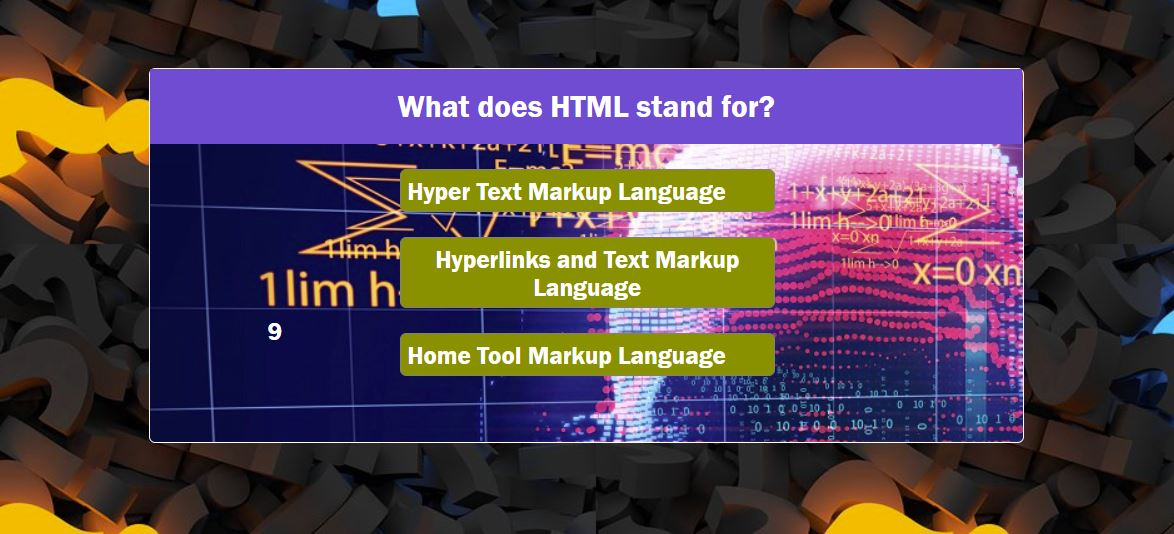
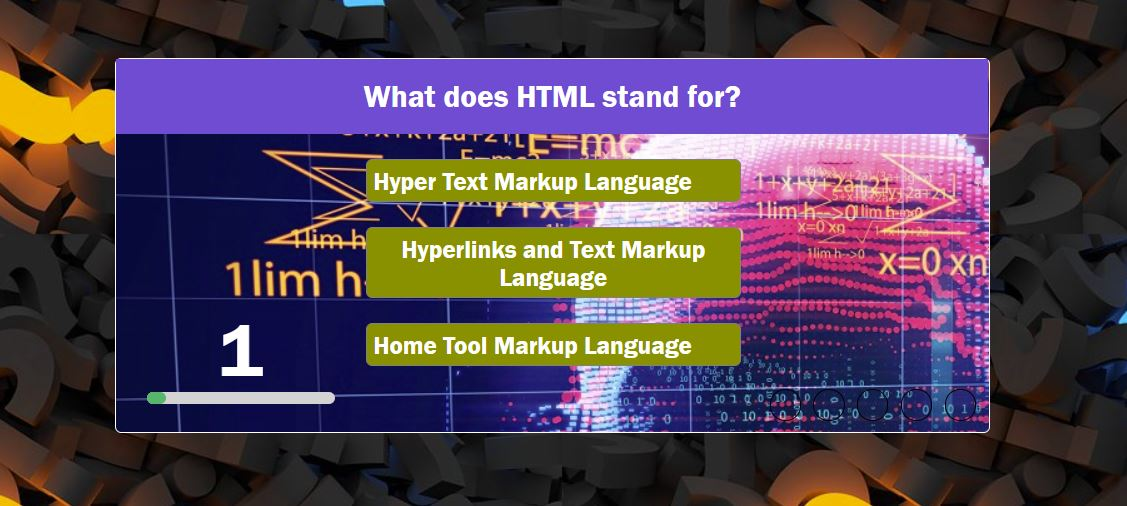
highscore added

diff --git a/script.js b/script.js
@@ -2,13 +2,15 @@
 const start = document.getElementById("start");
 const quiz = document.getElementById("quiz");
 const question = document.getElementById("question");
+const qImg = document.getElementById("qImg");
 const choiceA = document.getElementById("A");
 const choiceB = document.getElementById("B");
 const choiceC = document.getElementById("C");
 const counter = document.getElementById("counter");
+const timeGauge = document.getElementById("timeGauge");
+const progress = document.getElementById("progress");
 const scoreDiv = document.getElementById("scoreContainer");
-const yourName = document.getElementById(".details");
-const highsSores= [];
+const userDetails = document.getElementById("user-details");
 
 // create our questions
 let questions = [
@@ -49,36 +51,27 @@ let questions = [
 
 ];
 // create some variables
+
 const lastQuestion = questions.length - 1;
 let runningQuestion = 0;
-let count = 10;
+let count = 0;
 const questionTime = 10; // 10s
+const gaugeWidth = 150; // 150px
+const gaugeUnit = gaugeWidth / questionTime;
 let TIMER;
 let score = 0;
-
-// timer
-var interval = setInterval(function(){
-  document.getElementById('count').innerHTML=count;
-  count--;
-  if (count === 0){
-    clearInterval(interval);
-    document.getElementById('count').innerHTML='GAME OVER';
-    // or...
-    alert("You're out of time!");
-  }
-}, 1000);
 
 // render a question
 function renderQuestion(){
     let q = questions[runningQuestion];
-    
     question.innerHTML = "<p>"+ q.question +"</p>";
-    
     choiceA.innerHTML = q.choiceA;
     choiceB.innerHTML = q.choiceB;
     choiceC.innerHTML = q.choiceC;
 }
+
 start.addEventListener("click",startQuiz);
+
 // start quiz
 function startQuiz(){
     start.style.display = "none";
@@ -88,6 +81,7 @@ function startQuiz(){
     renderCounter();
     TIMER = setInterval(renderCounter,1000); // 1000ms = 1s
 }
+
 // render progress
 function renderProgress(){
     for(let qIndex = 0; qIndex <= lastQuestion; qIndex++){
@@ -96,9 +90,11 @@ function renderProgress(){
 }
 
 // counter render
+
 function renderCounter(){
     if(count <= questionTime){
         counter.innerHTML = count;
+        timeGauge.style.width = count * gaugeUnit + "px";
         count++
     }else{
         count = 0;
@@ -115,7 +111,8 @@ function renderCounter(){
     }
 }
 
-// checkAnswer
+// checkAnwer
+
 function checkAnswer(answer){
     if( answer == questions[runningQuestion].correct){
         // answer is correct
@@ -137,14 +134,17 @@ function checkAnswer(answer){
         scoreRender();
     }
 }
+
 // answer is correct
 function answerIsCorrect(){
-    confirm("That's Correct");
+    document.getElementById(runningQuestion).style.backgroundColor = "#0f0";
 }
+
 // answer is Wrong
 function answerIsWrong(){
-    confirm("Sorry, that's incorrect");
+    document.getElementById(runningQuestion).style.backgroundColor = "#f00";
 }
+
 // score render
 function scoreRender(){
     scoreDiv.style.display = "block";
@@ -154,5 +154,3 @@ function scoreRender(){
     
     scoreDiv.innerHTML += "<p>"+ scorePerCent +"%</p>";
 }
-
-

diff --git a/userDetails.js b/userDetails.js
@@ -1,0 +1,84 @@
+var todoInput = document.querySelector("#todo-text");
+var todoForm = document.querySelector("#todo-form");
+var todoList = document.querySelector("#todo-list");
+var todoCountSpan = document.querySelector("#todo-count");
+
+var todos = [];
+
+init();
+
+function renderTodos() {
+  // Clear todoList element and update todoCountSpan
+  todoList.innerHTML = "";
+  todoCountSpan.textContent = todos.length;
+
+  // Render a new li for each todo
+  for (var i = 0; i < todos.length; i++) {
+    var todo = todos[i];
+
+    var li = document.createElement("li");
+    li.textContent = todo;
+    li.setAttribute("data-index", i);
+
+    var button = document.createElement("button");
+    button.textContent = "Complete";
+
+    li.appendChild(button);
+    todoList.appendChild(li);
+  }
+}
+
+function init() {
+  // Get stored todos from localStorage
+  // Parsing the JSON string to an object
+  var storedTodos = JSON.parse(localStorage.getItem("todos"));
+
+  // If todos were retrieved from localStorage, update the todos array to it
+  if (storedTodos !== null) {
+    todos = storedTodos;
+  }
+
+  // Render todos to the DOM
+  renderTodos();
+}
+
+function storeTodos() {
+  // Stringify and set "todos" key in localStorage to todos array
+  localStorage.setItem("todos", JSON.stringify(todos));
+}
+
+// When form is submitted...
+todoForm.addEventListener("submit", function(event) {
+  event.preventDefault();
+
+  var todoText = todoInput.value.trim();
+
+  // Return from function early if submitted todoText is blank
+  if (todoText === "") {
+    return;
+  }
+
+  // Add new todoText to todos array, clear the input
+  todos.push(todoText);
+  todoInput.value = "";
+
+  // Store updated todos in localStorage, re-render the list
+  storeTodos();
+  renderTodos();
+});
+
+// When a element inside of the todoList is clicked...
+todoList.addEventListener("click", function(event) {
+  var element = event.target;
+
+  // If that element is a button...
+  if (element.matches("button") === true) {
+    // Get its data-index value and remove the todo element from the list
+    var index = element.parentElement.getAttribute("data-index");
+    todos.splice(index, 1);
+
+    // Store updated todos in localStorage, re-render the list
+    storeTodos();
+    renderTodos();
+  }
+});

diff --git a/index.html b/index.html
@@ -6,24 +6,27 @@
     <link rel="stylesheet" href="style.css">
 </head>
 <body>
+    
     <div id="container">
-        <div id="start">Start Thibz Quiz!</div>
+        <div id="button"><a href="userDetails.html" style="color: azure; border: 1px solid; text-decoration: none; background-color: chartreuse ; color :black;">HighScores</a></div>
+        <div id="start">Start Quiz!</div>
         <div id="quiz" style="display: none">
             <div id="question"></div>
-         <!-- <div id="qImg"></div> -->
+            <div id="qImg"></div>
             <div id="choices">
                 <div class="choice" id="A" onclick="checkAnswer('A')"></div>
                 <div class="choice" id="B" onclick="checkAnswer('B')"></div>
                 <div class="choice" id="C" onclick="checkAnswer('C')"></div>
             </div>
-                <div class = "floatingScore"> <span class ="count"></span></div>
             <div id="timer">
                 <div id="counter"></div>
-                <div id="count"></div>
+                <div id="btimeGauge"></div>
+                <div id="timeGauge"></div>
             </div>
+            <div id="progress"></div>
         </div>
-        <div id="scoreContainer" class ="details" style="display: none"> Please share this game ! Your score is ==> </div>
+        <div id="scoreContainer" style="display: none"></div>
     </div>
     <script src="script.js"></script>
 </body>
-</html
+</html>

diff --git a/userDetails.css b/userDetails.css
@@ -1,0 +1,67 @@
+*,
+*::before,
+*::after {
+  box-sizing: border-box;
+}
+
+body {
+  font-family: "Concert One", cursive;
+  font-size: 16px;
+}
+
+input {
+  height: 50px;
+  width: 100%;
+  padding: 6px;
+  margin-top: 10px;
+  font-size: 2.4em;
+  border: none;
+}
+
+ul {
+  list-style-type: none;
+  padding: 0;
+  background-color: white;
+}
+
+li {
+  height: 50px;
+  margin-top: 5px;
+  margin-bottom: 5px;
+  padding: 5px;
+  background-color: #ff5d88;
+  color: white;
+  font-size: 1.5em;
+  line-height: 1.5;
+}
+
+li:before {
+  content: "\200B";
+  position: absolute;
+}
+
+li::after {
+  content: " ";
+  display: block;
+  clear: both;
+}
+
+li button {
+  float: right;
+  border: none;
+  height: 40px;
+  cursor: pointer;
+  background-color: #ff9500;
+  color: white;
+  font-size: 1em;
+}
+
+li button:hover {
+  background-color: #febc5d;
+}
+
+.todos {
+  width: 800px;
+  margin: 0 auto;
+  margin-top: 40px;
+}

diff --git a/userDetails.html b/userDetails.html
@@ -1,0 +1,20 @@
+<!DOCTYPE html>
+<html lang="en">
+<head>
+    <meta charset="UTF-8">
+    <title>HighScores</title>
+    <link rel="stylesheet" href="userDetails.css">
+</head>
+<body>
+  <div id="button"><a href="index.html" style="color: azure; border: 1px solid; text-decoration: none; background-color: chartreuse ; color :black;">Back to Home Page</a></div>
+    <div class="todos">
+        <form id="todo-form" method="POST">
+          <label for="todo-text">Add a User name and Score : </label>
+          <input type="text" placeholder="Please enter your name and score" name="todo-text" id="todo-text" />
+        </form>
+        <p>User scores :  <span id="todo-count">0</span></p>
+        <ul id="todo-list"></ul>
+      </div>
+    <script src="userDetails.js"></script>
+</body>
+</html>

diff --git a/readme.md b/readme.md
@@ -4,7 +4,7 @@
 
 * Build a Quiz with HTML, CSS, and JavaScript to improve your Core Web Development without the assistance of libraries or frameworks.
 
-##  Here are some of the topic we will cover!
+##  Topics we need to master!
 
 * Save high scores in Local Storage
 * Dynamically generate HTML in JavaScript
@@ -26,7 +26,7 @@
 9. Test the game and open keep using your console to prevent any error
 10. Share your game on GitHub!
 
-## Link to the game calles " Thibz Quiz"
+## Link to the game called " Thibz Quiz"
 
 https://thibsvw.github.io/Quiz-Game/ 
 
@@ -38,7 +38,8 @@ https://thibsvw.github.io/Quiz-Game/
 
 2. Questions with 10seconds timer for each question
 
-![questions](https://user-images.githubusercontent.com/64518932/83929769-2a67d600-a7c7-11ea-84d5-6e249bd3e020.JPG)
+![questions](https://user-images.githubusercontent.com/64518932/83930323-8b90a900-a7c9-11ea-9ff9-0e0e5ac20741.JPG)
+
 
 3. Final results displayed 
 
